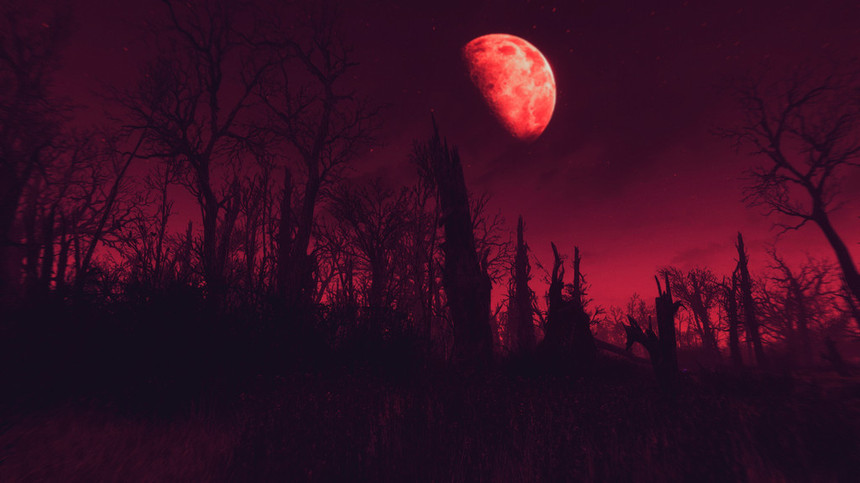
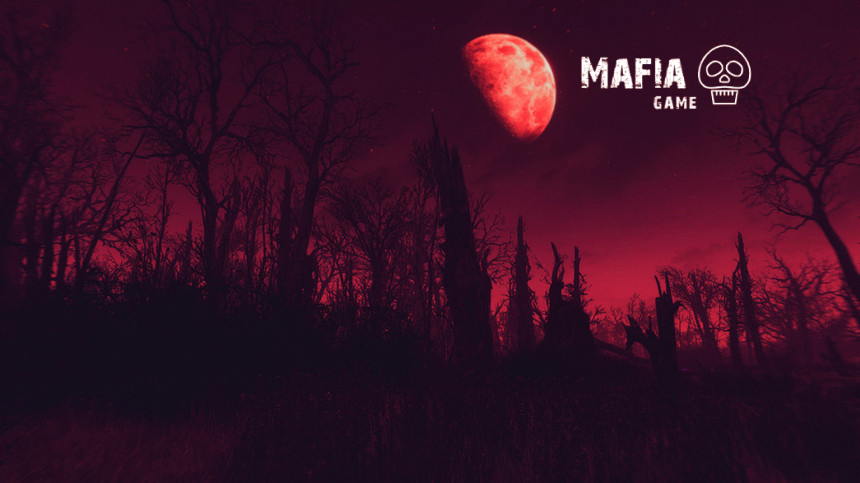
fix: resolve build error

Changed region(s): [[0.6651, 0.0932, 0.8767, 0.2484]]

diff --git a/src/app/features/lobby/pages/lobby/lobby.component.ts b/src/app/features/lobby/pages/lobby/lobby.component.ts
@@ -2,6 +2,7 @@ import { Component, NgZone, OnDestroy, OnInit } from '@angular/core';
 import { ActivatedRoute } from '@angular/router';
 import {
   ILobby,
+  LobbyJoinedResponse,
   LobbyJoinResponse,
   SOCKET_EVENTS,
   SocketService,
@@ -50,6 +51,7 @@ export class LobbyComponent
 
   ngOnInit(): void {
     this.lobbyId = this.route.snapshot.paramMap.get('lobbyId');
+
     this.addSubscription(
       this.socket
         .on<LobbyJoinResponse>(SOCKET_EVENTS.JOIN_LOBBY)
@@ -59,6 +61,17 @@ export class LobbyComponent
           });
         })
     );
+
+    this.addSubscription(
+      this.socket
+        .on<LobbyJoinedResponse>(SOCKET_EVENTS.JOINED_LOBBY)
+        .subscribe((response) => {
+          this.zone.run(() => {
+            response.data && this.lobbyService.addPlayerToLobby(response.data!);
+          });
+        })
+    );
+
     this.lobbyId &&
       !this.lobbyService.getCurrentLobby() &&
       this.lobbyService.joinLobby(this.lobbyId);

diff --git a/src/app/features/home/pages/roles/roles.component.html b/src/app/features/home/pages/roles/roles.component.html
@@ -2,13 +2,13 @@
   class="relative h-full flex flex-col justify-center p-20 text-center space-y-20">
   <app-go-back></app-go-back>
   <h2 class="text-5xl">Roles</h2>
-  <ul class="flex space-x-10 text-xl">
+  <ul class="flex space-x-4 text-xl">
     <li *ngFor="let role of roles" class="basis-1/5 p-5">
       <div class="flex justify-center items-center mb-10">
-        <img  [src]="'assets/roles/' + role.name + '.png'" alt="">
+        <img [src]="'assets/roles/' + role.name + '.png'" alt="" />
       </div>
       <h3 class="uppercase text-2xl mb-10">{{ role.name }}</h3>
-      <p> {{ role.description }}</p>
+      <p>{{ role.description }}</p>
     </li>
   </ul>
 </section>

diff --git a/electron/index.ts b/electron/index.ts
@@ -1,4 +1,7 @@
 import { app, BrowserWindow, ipcMain } from 'electron';
+import * as path from 'path';
+
+import * as url from 'url';
 import {
   handleSocketConnect,
   handleSocketDisconnect,
@@ -6,15 +9,12 @@ import {
   IPC_MESSAGES
 } from './utils';
 
-import * as url from 'url';
-import * as path from 'path';
-
 let mainWindow: BrowserWindow;
 
 const loadUrl = () => {
   mainWindow.loadURL(
     url.format({
-      pathname: path.join(__dirname, `/../../dist/mafia-game/index.html`),
+      pathname: path.join(__dirname, `/../../dist/index.html`),
       protocol: 'file:',
       slashes: true
     })

diff --git a/src/app/core/services/lobby/lobby.service.ts b/src/app/core/services/lobby/lobby.service.ts
@@ -5,7 +5,8 @@ import {
   ILobby,
   LobbyCreateDTO,
   LobbyJoinDTO,
-  LobbyLeaveDTO
+  LobbyLeaveDTO,
+  Player
 } from '../../models';
 import { SocketService } from '../socket';
 import { UserService } from '../user';
@@ -51,6 +52,14 @@ export class LobbyService {
       id,
       username
     });
+  }
+
+  public addPlayerToLobby(player: Player) {
+    const currentLobby = this.getCurrentLobby();
+    if (currentLobby) {
+      currentLobby.players?.push(player);
+      this.setCurrentLobby(currentLobby);
+    }
   }
 
   public setCurrentLobby(lobby: ILobby | null) {

diff --git a/electron/dist/index.js b/electron/dist/index.js
@@ -1,13 +1,13 @@
 "use strict";
 Object.defineProperty(exports, "__esModule", { value: true });
 var electron_1 = require("electron");
-var utils_1 = require("./utils");
-var url = require("url");
 var path = require("path");
+var url = require("url");
+var utils_1 = require("./utils");
 var mainWindow;
 var loadUrl = function () {
     mainWindow.loadURL(url.format({
-        pathname: path.join(__dirname, "/../../dist/mafia-game/index.html"),
+        pathname: path.join(__dirname, "/../../dist/index.html"),
         protocol: 'file:',
         slashes: true
     }));

diff --git a/src/app/app.component.scss b/src/app/app.component.scss
@@ -1,10 +1,11 @@
 :host {
+  position: relative;
+  display: block;
+  overflow: hidden;
+  width: 100%;
+  height: 100%;
   background-image: url('../assets/background1.png');
   background-repeat: no-repeat;
+  background-position: top 0 left 50%;
   background-size: cover;
-  display: block;
-  height: 100%;
-  overflow: hidden;
-  position: relative;
-  width: 100%;
 }

diff --git a/src/app/core/models/socket/socket-responses.ts b/src/app/core/models/socket/socket-responses.ts
@@ -1,4 +1,5 @@
 import { ILobby } from '../lobby';
+import { IUser } from '../user';
 
 export interface LobbyCreateResponse extends ILobby {}
 
@@ -7,7 +8,7 @@ export interface LobbyJoinResponse extends ILobby {}
 export type LobbyLeaveResponse = string;
 
 export interface LobbyLeftResponse {
-  lobbyId: string;
+  id: IUser['id'];
   username: string;
 }
 

diff --git a/src/app/features/lobby/pages/lobby-create/lobby-create.component.html b/src/app/features/lobby/pages/lobby-create/lobby-create.component.html
@@ -1,7 +1,7 @@
 <section class="relative h-full flex items-center justify-center">
   <app-go-back></app-go-back>
   <form
-    class="flex flex-col basis-1/4 space-y-10 text-4xl"
+    class="flex flex-col max-w-md w-full space-y-10 text-4xl"
     [formGroup]="lobbyForm"
     (ngSubmit)="createLobby()">
     <label for="lobbyName">Name of the room</label>

diff --git a/src/app/core/models/lobby.ts b/src/app/core/models/lobby.ts
@@ -1,9 +1,10 @@
-import { IUser } from '../user';
+import { Player } from './player';
+import { IUser } from './user';
 
 export interface ILobby {
   id: string;
   name: string;
-  players?: Omit<IUser, 'email' | 'password'>[];
+  players?: Player[];
   host: IUser['username'];
   playersCount: number;
 }

diff --git a/src/app/app.component.html b/src/app/app.component.html
@@ -1,1 +1,4 @@
 <router-outlet></router-outlet>
+<a class="w-80 absolute top-[12%] right-[16%]" routerLink="/">
+  <img class="w-full" src="assets/logo.png" alt="logo" />
+</a>

diff --git a/src/app/core/models/index.ts b/src/app/core/models/index.ts
@@ -1,3 +1,4 @@
 export * from './user';
 export * from './socket';
 export * from './lobby';
+export * from './player';

diff --git a/src/app/core/models/player.ts b/src/app/core/models/player.ts
@@ -1,0 +1,3 @@
+import { IUser } from './user';
+
+export interface Player extends Omit<IUser, 'password' | 'email'> {}
